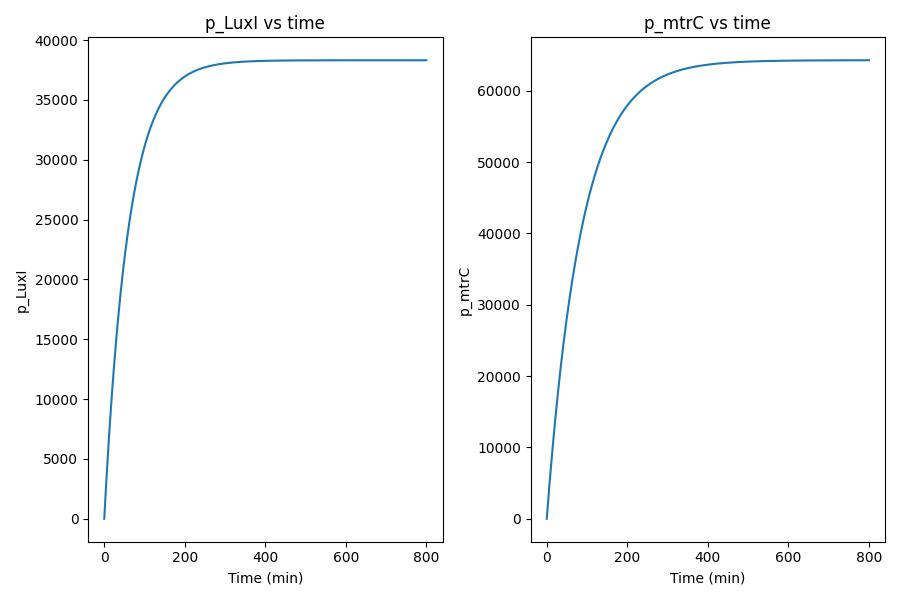
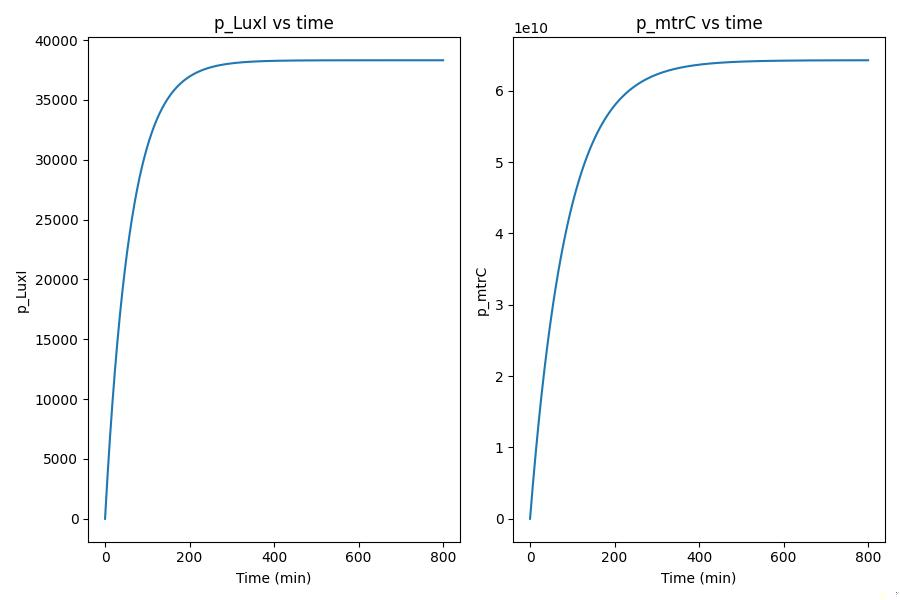
updates

diff --git a/Simulacion_determinista_Estocastica/Simulacion_gillespie.py b/Simulacion_determinista_Estocastica/Simulacion_gillespie.py
@@ -149,13 +149,13 @@ def Estado_celula(X0,tiempos):
 #%%
 x0 = np.array([0., 0., 0., 0., 0., 0.])
 
-num_cel = 10 #número de células 
+num_cel = 10000 #número de células 
 celulas = np.array([Estado_celula(x0,np.arange(0.,700.,1.)) for i in tqdm(range(num_cel))])
 
 celulas_prom = np.mean(celulas,axis=0) #axis = 0 saca el promedio componente a componente de cada célula.
 #%%
 import matplotlib.pyplot as plt
-plt.plot(celulas[:,:,0])
+plt.plot(1000000*celulas_prom[:,5])
 # %%
 print(len(celulas_prom[:,0]))
 # %%
@@ -163,6 +163,9 @@ constante_grande
 # %%
 celulas[:,:,0].shape
 # %%
-for i in range(0,9):
-    plt.plot(celulas[:,:,5][i])
+plt.title(r"")
+for i in range(0,num_cel):
+    plt.plot(1000000*celulas[:,:,5][i])
+plt.xlabel(r"")
+plt.ylabel(r"")
 # %%
